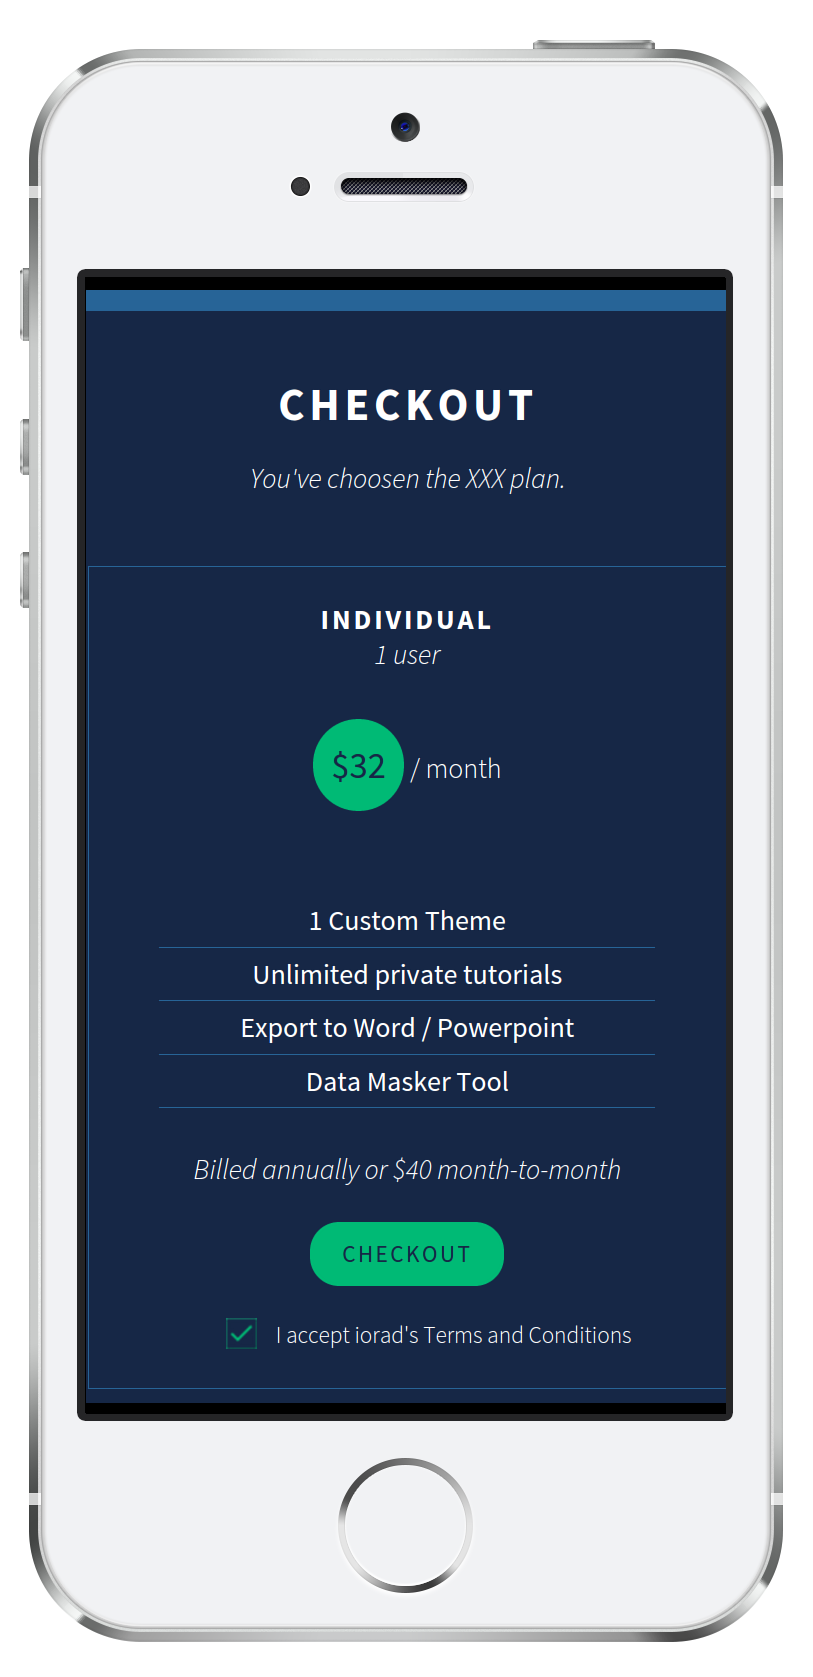
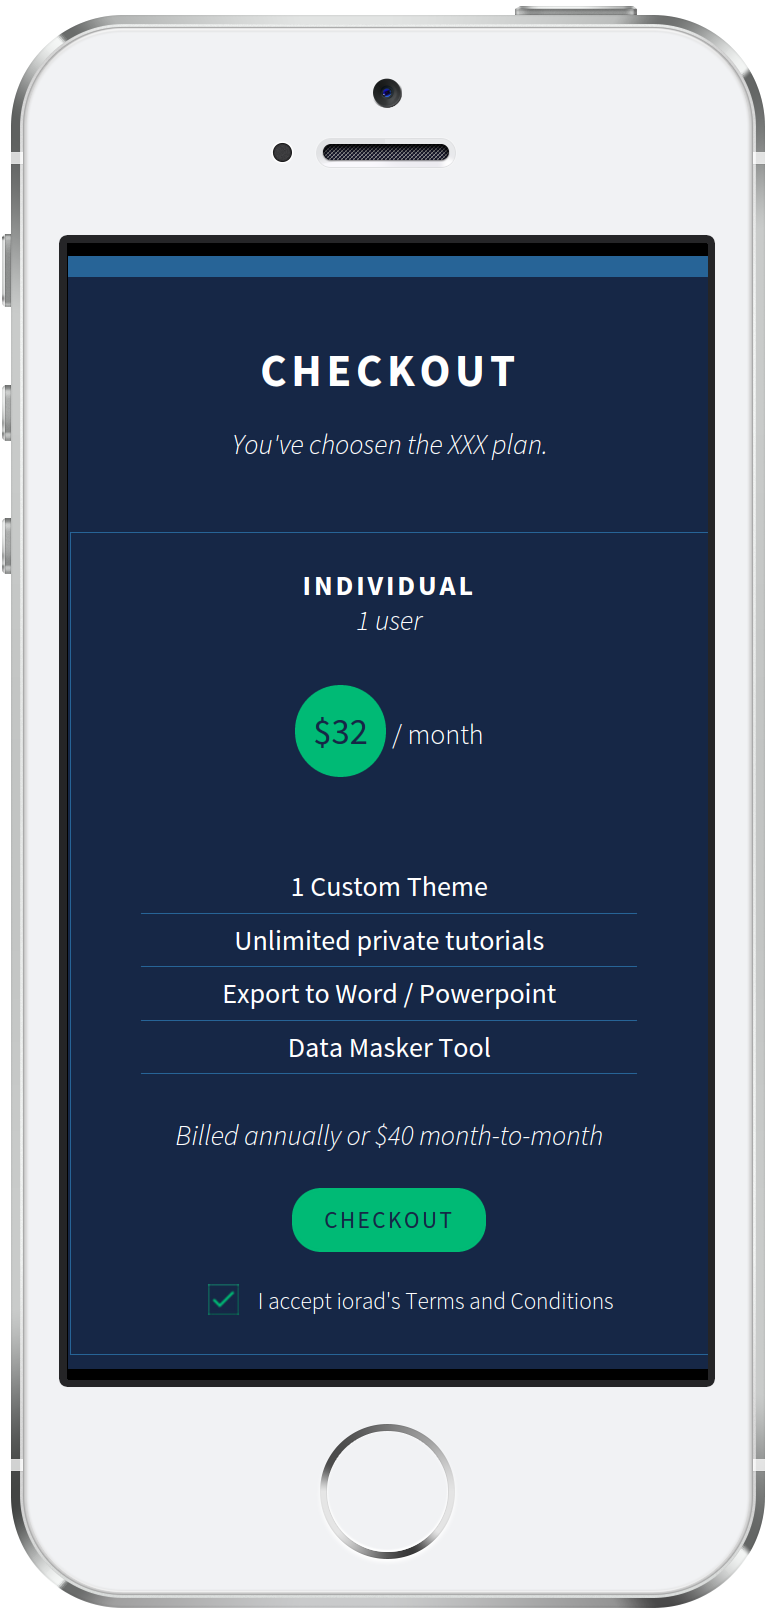
The two mobile devices are aligned perfectly

diff --git a/site/components/pages/work/iorad/iorad.html b/site/components/pages/work/iorad/iorad.html
@@ -113,7 +113,7 @@ Front&ndash;end development</li>
 
   
     
-    <figure >
+    <figure  class="iphone" >
   
 
 
@@ -145,11 +145,11 @@ Front&ndash;end development</li>
     <source media="(min-width: 37.5em)" srcset="/assets/images/iorad-pricing-mobile_tablet.png, /assets/images/iorad-pricing-mobile_tablet2x.png 2x">
     <source srcset="/assets/images/iorad-pricing-mobile_mobile.png, /assets/images/iorad-pricing-mobile_mobile2x.png 2x">
     <!--[if IE 9]></video><![endif]-->
-    <img srcset="/assets/images/iorad-pricing-mobile_desktop.png" alt="The pricing page on mobile">
+    <img srcset="/assets/images/iorad-pricing-mobile_desktop.png" alt="The iorad pricing page on mobile">
   </picture>
 
   <figcaption class="figcaption--from-title">
-    The pricing page on mobile
+    The iorad pricing page on mobile
   </figcaption>
 
   
@@ -157,7 +157,7 @@ Front&ndash;end development</li>
 
   
     
-    <figure >
+    <figure  class="iphone" >
   
 
 
@@ -189,11 +189,11 @@ Front&ndash;end development</li>
     <source media="(min-width: 37.5em)" srcset="/assets/images/iorad-checkout-mobile_tablet.png, /assets/images/iorad-checkout-mobile_tablet2x.png 2x">
     <source srcset="/assets/images/iorad-checkout-mobile_mobile.png, /assets/images/iorad-checkout-mobile_mobile2x.png 2x">
     <!--[if IE 9]></video><![endif]-->
-    <img srcset="/assets/images/iorad-checkout-mobile_desktop.png" alt="The checkout page on mobile">
+    <img srcset="/assets/images/iorad-checkout-mobile_desktop.png" alt="The iorad checkout page on mobile">
   </picture>
 
   <figcaption class="figcaption--from-title">
-    The checkout page on mobile
+    The iorad checkout page on mobile
   </figcaption>
 
   

diff --git a/site/components/project/portfolio/__images/portfolio__images.scss b/site/components/project/portfolio/__images/portfolio__images.scss
@@ -1,12 +1,20 @@
 @mixin portfolio__images {
   display: flex;
-  
+  flex-wrap: wrap;
+  justify-content: center;
 
   figure {
     @include figure($figcaption: figcaption);
 
     figcaption {
       @include text-style(small-text);
+    }
+
+    &.iphone {
+      width: calc(50% - #{$lem / 2});
+      &:first-of-type {
+        margin-right: $lem;
+      }
     }
   }
 }

diff --git a/site/components/project/portfolio/__description/portfolio__description.scss b/site/components/project/portfolio/__description/portfolio__description.scss
@@ -1,4 +1,12 @@
 @mixin portfolio__description {
+  @include mobile {
+    padding-bottom: $lem;
+  }
+
+  @include mobile-and-up {
+    padding-right: $lem;
+  }
+  
   div {
     @include text-style(body-text);
   }
